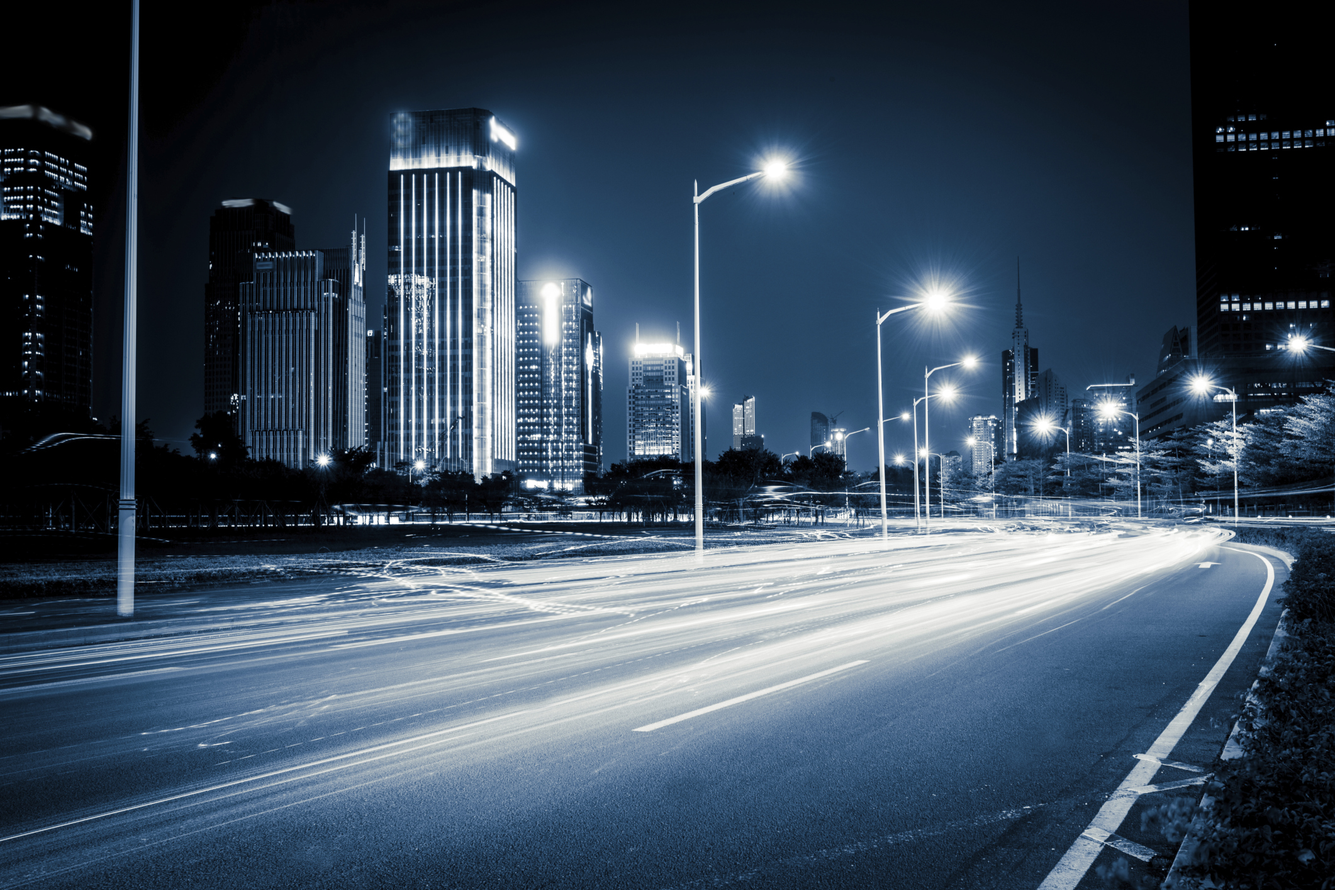
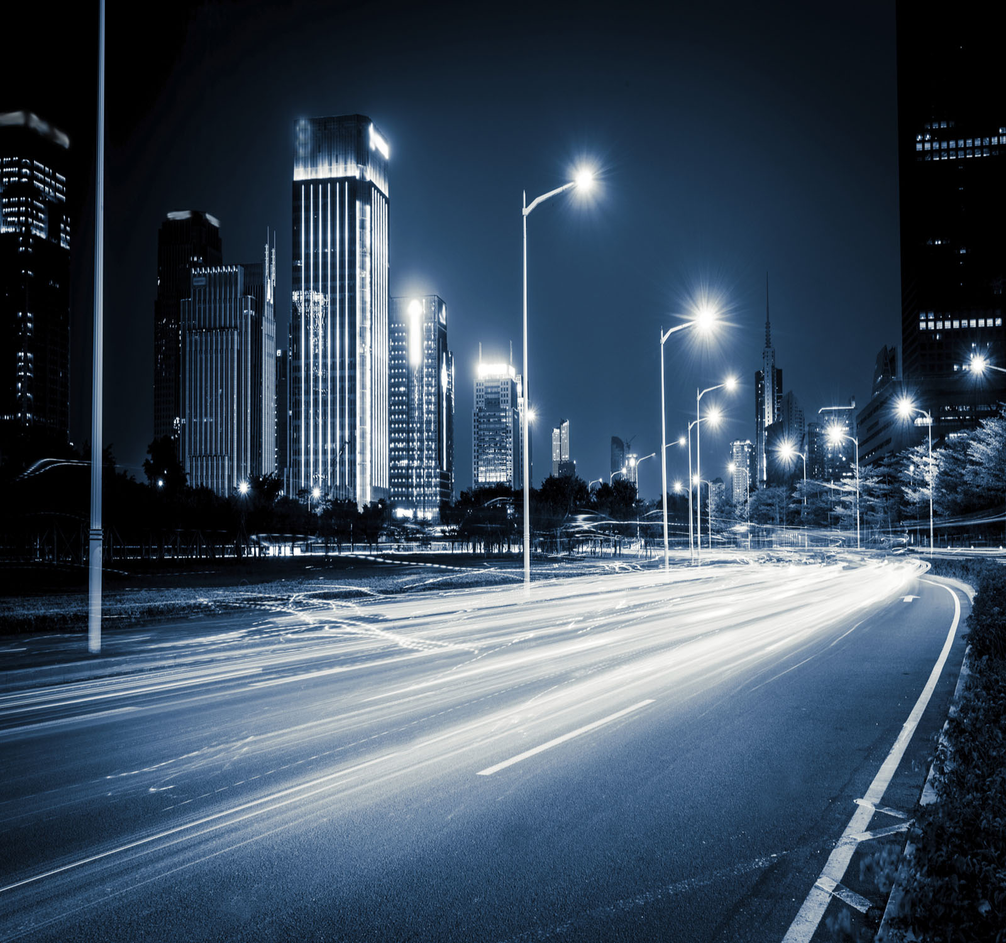
crop images and fix slider

Changed region(s): [[0.5938, 0.5908, 0.625, 0.6219]]

diff --git a/stylesheets/main.css b/stylesheets/main.css
@@ -1,1 +1,1 @@
-@font-face{font-family:raleway;src:url(../fonts/Raleway-Regular.ttf)}@font-face{font-family:ralewayLight;src:url(../fonts/Raleway-Light.ttf)}@font-face{font-family:ralewayBold;src:url(../fonts/Raleway-Bold.ttf)}.raleway{font-family:raleway}.raleway-light{font-family:ralewayLight}.raleway-bold{font-family:ralewayBold}.white{color:white}.letter{color:white;font-size:20px;position:fixed;bottom:0;right:0;background-color:rgba(0,0,0,0.5);padding:10px;cursor:pointer;z-index:10}.heading-line{border-bottom:1px solid black;width:100px;margin-bottom:50px}.heading-line_white{border-bottom:1px solid white;width:100px;margin-bottom:50px}.dashboard{background-image:url(../img/dashboard__bg.png);padding-top:150px;padding-bottom:50px;background-size:cover}.dashboard__logo{margin-bottom:30px}.dashboard__button{padding:10px 40px;color:white;background-color:#00aeef;border:1px solid transparent;border-radius:3px;margin-bottom:200px}.dashboard__button:hover{background-color:#0094cb}@media (max-width:680px){.dashboard__button{margin-bottom:100px}}.dashboard__arrow{font-size:30px;cursor:pointer}.dashboard__arrow:hover{color:#b3b3b3}.login{background-color:#212121;padding:10px 0}.login__button{border:1px solid white;border-radius:3px;background-color:transparent;width:100%;padding:10px 0;color:white}@media (max-width:765px){.login__button{margin-bottom:20px}}.login__button-row{padding-top:10px}.login__button_blue{background-color:#00aeef;border-color:#00aeef}.login__button_blue:hover{background-color:#0094cb}@media (max-width:765px){.login__logo{display:none}}.work{padding-top:50px;padding-bottom:50px}.work__video{margin-bottom:20px}.work__button{border:1px solid #00aeef;border-radius:3px;background-color:#00aeef;padding:10px 40px;color:white}.work__line{border-bottom:1px solid black;position:relative;top:35px;left:170px;width:66%}@media (min-width:766px) and (max-width:1092px){.work__line{left:155px;width:65%}}@media (max-width:765px){.work__line{display:none}}.work__content{font-size:16px}.clients{background-image:url(../img/clients__bg.png);background-position:center;padding:50px 0;height:700px}@media (max-width:765px){.clients{height:1100px}}.clients__row{margin-bottom:50px}.clients__img{margin-bottom:50px}@media (max-width:480px){.clients__img{margin-bottom:25px}}.cases{padding:50px 0;background-color:white}.cases .col-sm-4{padding-left:0;padding-right:0}.cases__glyphicon{font-size:50px;margin-bottom:30px;color:#00aeef}.cases__heading{font-size:18px}.cases__content{font-size:16px}.cases__block{padding:70px 10px}@media (max-width:765px){.cases__block{padding:20px}}.cases .border_right{border-right:1px solid #2e292a}@media (max-width:1319px){.cases .border_right{border:none}}.cases .border_left{border-left:1px solid #2e292a}@media (max-width:1319px){.cases .border_left{border:none}}.cases .border_right-bottom{border-right:1px solid #2e292a;border-bottom:1px solid #2e292a}.cases .border_right-bottom::after{width:12px;height:12px;border-radius:100%;background-color:#00aeef;content:" ";position:absolute;bottom:-5px;right:-5px;z-index:1}@media (max-width:1319px){.cases .border_right-bottom::after{display:none}}@media (max-width:1319px){.cases .border_right-bottom{border:none}}.cases .border_bottom{border-bottom:1px solid #2e292a}@media (max-width:1319px){.cases .border_bottom{border:none}}.cases .border_left-bottom{border-left:1px solid #2e292a;border-bottom:1px solid #2e292a}.cases .border_left-bottom::after{width:12px;height:12px;border-radius:100%;background-color:#00aeef;content:" ";position:absolute;bottom:-5px;left:-5px;z-index:1}@media (max-width:1319px){.cases .border_left-bottom::after{display:none}}@media (max-width:1319px){.cases .border_left-bottom{border:none}}.location{padding:50px 0;background-image:url(../img/location__bg.png);background-size:cover}.location__row{padding:100px 0}.location__pin{margin-bottom:25px}.location__heading{font-size:30px}.location__numbers{font-size:50px;line-height:.8}@media (max-width:765px){.location__numbers{margin-bottom:50px}}.case-studies .slick-case{color:white;margin-bottom:50px}.case-studies .slick-case .bg-overlay{background-color:rgba(0,0,0,0.5);position:absolute;top:0;bottom:0;left:0;right:0}.case-studies .slick-case__content{font-size:16px}.case-studies .slick-case__bg_football{padding:300px 0;background:url(../img/football.jpg) top;background-size:cover;position:relative}@media (max-width:765px){.case-studies .slick-case__bg_football{padding:50px 0}}.case-studies .slick-case__bg_minicabster{padding:147px 0;background:url(../img/minicabster__bg.jpg) center;background-size:cover;position:relative}@media (max-width:765px){.case-studies .slick-case__bg_minicabster{padding:50px 0}}.case-studies .slick-case__bg_holiday{padding:300px 0;background:url(../img/holiday.jpg) center;background-size:cover;position:relative}@media (max-width:765px){.case-studies .slick-case__bg_holiday{padding:25px 0}}.case-studies .slick-case__bg_mirror{padding:300px 0;background:url(../img/mirror.jpg) center;background-size:cover;position:relative}@media (max-width:765px){.case-studies .slick-case__bg_mirror{padding:50px 0}}.pricing{padding:50px 0;background-image:url(../img/pricing__bg.png);background-size:cover}.pricing .card__header{padding:20px 0;background-color:#00aeef}.pricing .card__body{padding:30px 0;background-color:#ededed}@media (max-width:765px){.pricing .card__body{margin-bottom:20px}}.pricing .card__body_with-border{padding:30px 0;background-color:#ededed;border-bottom:2px solid white}.pricing .card__body_with-border .card__heading{color:#212121}.pricing .card__body .card__heading{color:#212121}.pricing .card__heading{color:#004c69;font-size:20px}.pricing .card__heading_big{color:white;font-size:50px;line-height:.8}.pricing .card__heading_small{color:white;font-size:16px}.press{padding:50px 0;background-color:white}.press__img{margin-bottom:30px}footer{background-color:#373a3e;color:white;padding:20px 0}footer .footer__link{color:white}
+@font-face{font-family:raleway;src:url(../fonts/Raleway-Regular.ttf)}@font-face{font-family:ralewayLight;src:url(../fonts/Raleway-Light.ttf)}@font-face{font-family:ralewayBold;src:url(../fonts/Raleway-Bold.ttf)}.raleway{font-family:raleway}.raleway-light{font-family:ralewayLight}.raleway-bold{font-family:ralewayBold}.white{color:white}.letter{color:white;font-size:20px;position:fixed;bottom:0;right:0;background-color:rgba(0,0,0,0.5);padding:10px;cursor:pointer;z-index:10}.heading-line{border-bottom:1px solid black;width:100px;margin-bottom:50px}.heading-line_white{border-bottom:1px solid white;width:100px;margin-bottom:50px}.dashboard{background-image:url(../img/dashboard__bg.png);padding-top:150px;padding-bottom:50px;background-size:cover}.dashboard__logo{margin-bottom:30px}.dashboard__button{padding:10px 40px;color:white;background-color:#00aeef;border:1px solid transparent;border-radius:3px;margin-bottom:200px}.dashboard__button:hover{background-color:#0094cb}@media (max-width:680px){.dashboard__button{margin-bottom:100px}}.dashboard__arrow{font-size:30px;cursor:pointer}.dashboard__arrow:hover{color:#b3b3b3}.login{background-color:#212121;padding:10px 0}.login__button{border:1px solid white;border-radius:3px;background-color:transparent;width:100%;padding:10px 0;color:white}@media (max-width:765px){.login__button{margin-bottom:20px}}.login__button-row{padding-top:10px}.login__button_blue{background-color:#00aeef;border-color:#00aeef}.login__button_blue:hover{background-color:#0094cb}@media (max-width:765px){.login__logo{display:none}}.work{padding-top:50px;padding-bottom:50px}.work__video{margin-bottom:20px}.work__button{border:1px solid #00aeef;border-radius:3px;background-color:#00aeef;padding:10px 40px;color:white}.work__line{border-bottom:1px solid black;position:relative;top:35px;left:170px;width:66%}@media (min-width:766px) and (max-width:1092px){.work__line{left:155px;width:65%}}@media (max-width:765px){.work__line{display:none}}.work__content{font-size:16px}.clients{background-image:url(../img/clients__bg.png);background-position:center;padding:50px 0;height:700px}@media (max-width:765px){.clients{height:1100px}}.clients__row{margin-bottom:50px}.clients__img{margin-bottom:50px}@media (max-width:480px){.clients__img{margin-bottom:25px}}.cases{padding:50px 0;background-color:white}.cases .col-sm-4{padding-left:0;padding-right:0}.cases__glyphicon{font-size:50px;margin-bottom:30px;color:#00aeef}.cases__heading{font-size:18px}.cases__content{font-size:16px}.cases__block{padding:70px 10px}@media (max-width:765px){.cases__block{padding:20px}}.cases .border_right{border-right:1px solid #2e292a}@media (max-width:1319px){.cases .border_right{border:none}}.cases .border_left{border-left:1px solid #2e292a}@media (max-width:1319px){.cases .border_left{border:none}}.cases .border_right-bottom{border-right:1px solid #2e292a;border-bottom:1px solid #2e292a}.cases .border_right-bottom::after{width:12px;height:12px;border-radius:100%;background-color:#00aeef;content:" ";position:absolute;bottom:-5px;right:-5px;z-index:1}@media (max-width:1319px){.cases .border_right-bottom::after{display:none}}@media (max-width:1319px){.cases .border_right-bottom{border:none}}.cases .border_bottom{border-bottom:1px solid #2e292a}@media (max-width:1319px){.cases .border_bottom{border:none}}.cases .border_left-bottom{border-left:1px solid #2e292a;border-bottom:1px solid #2e292a}.cases .border_left-bottom::after{width:12px;height:12px;border-radius:100%;background-color:#00aeef;content:" ";position:absolute;bottom:-5px;left:-5px;z-index:1}@media (max-width:1319px){.cases .border_left-bottom::after{display:none}}@media (max-width:1319px){.cases .border_left-bottom{border:none}}.location{padding:50px 0;background-image:url(../img/location__bg.png);background-size:cover}.location__row{padding:100px 0}.location__pin{margin-bottom:25px}.location__heading{font-size:30px}.location__numbers{font-size:50px;line-height:.8}@media (max-width:765px){.location__numbers{margin-bottom:50px}}.case-studies .slick-case{color:white;margin-bottom:50px}.case-studies .slick-case .bg-overlay{background-color:rgba(0,0,0,0.5);position:absolute;top:0;bottom:0;left:0;right:0}.case-studies .slick-case__content{font-size:16px}.case-studies .slick-case__bg_football{padding:300px 0;background:url(../img/football.jpg) top;background-size:cover;position:relative}@media (max-width:765px){.case-studies .slick-case__bg_football{padding:50px 0}}.case-studies .slick-case__bg_minicabster{padding:148px 0;background:url(../img/minicabster__bg.jpg) center;background-size:cover;position:relative}@media (max-width:765px){.case-studies .slick-case__bg_minicabster{padding:50px 0}}.case-studies .slick-case__bg_holiday{padding:266px 0;background:url(../img/holiday.jpg) center;background-size:cover;position:relative}@media (max-width:765px){.case-studies .slick-case__bg_holiday{padding:25px 0}}.case-studies .slick-case__bg_mirror{padding:265px 0;background:url(../img/mirror.jpg) center;background-size:cover;position:relative}@media (max-width:765px){.case-studies .slick-case__bg_mirror{padding:50px 0}}.pricing{padding:50px 0;background-image:url(../img/pricing__bg.png);background-size:cover}.pricing .card__header{padding:20px 0;background-color:#00aeef}.pricing .card__body{padding:30px 0;background-color:#ededed}@media (max-width:765px){.pricing .card__body{margin-bottom:20px}}.pricing .card__body_with-border{padding:30px 0;background-color:#ededed;border-bottom:2px solid white}.pricing .card__body_with-border .card__heading{color:#212121}.pricing .card__body .card__heading{color:#212121}.pricing .card__heading{color:#004c69;font-size:20px}.pricing .card__heading_big{color:white;font-size:50px;line-height:.8}.pricing .card__heading_small{color:white;font-size:16px}.press{padding:50px 0;background-color:white}.press__img{margin-bottom:30px}footer{background-color:#373a3e;color:white;padding:20px 0}footer .footer__link{color:white}

diff --git a/stylesheets/main.less b/stylesheets/main.less
@@ -359,7 +359,7 @@
 		}
 
 		&__bg_minicabster {
-			padding: 147px 0;
+			padding: 148px 0;
 			background: url(../img/minicabster__bg.jpg) center;
 			background-size: cover;
 			position: relative;
@@ -370,7 +370,7 @@
 		}
 
 		&__bg_holiday {
-			padding: 300px 0;
+			padding: 266px 0;
 			background: url(../img/holiday.jpg) center;
 			background-size: cover;
 			position: relative;
@@ -381,7 +381,7 @@
 		}
 
 		&__bg_mirror {
-			padding: 300px 0;
+			padding: 265px 0;
 			background: url(../img/mirror.jpg) center;
 			background-size: cover;
 			position: relative;
